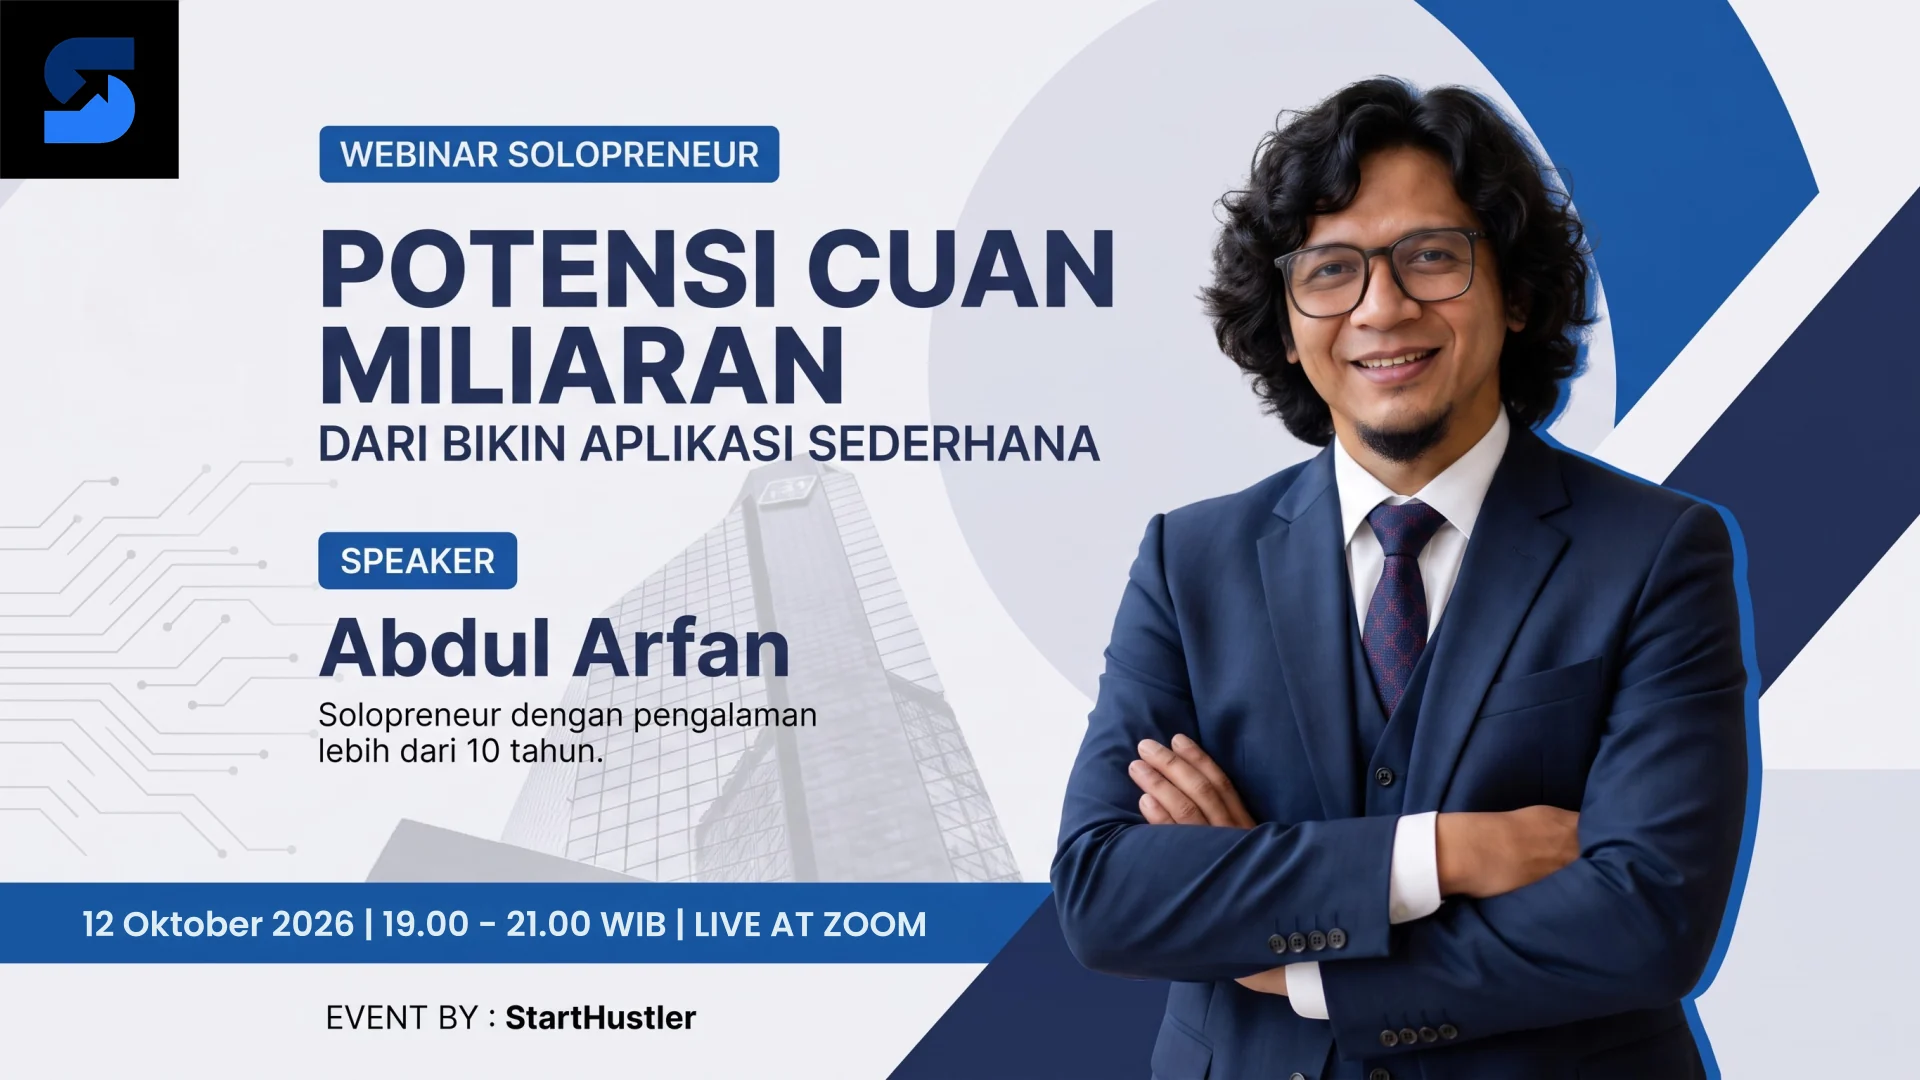
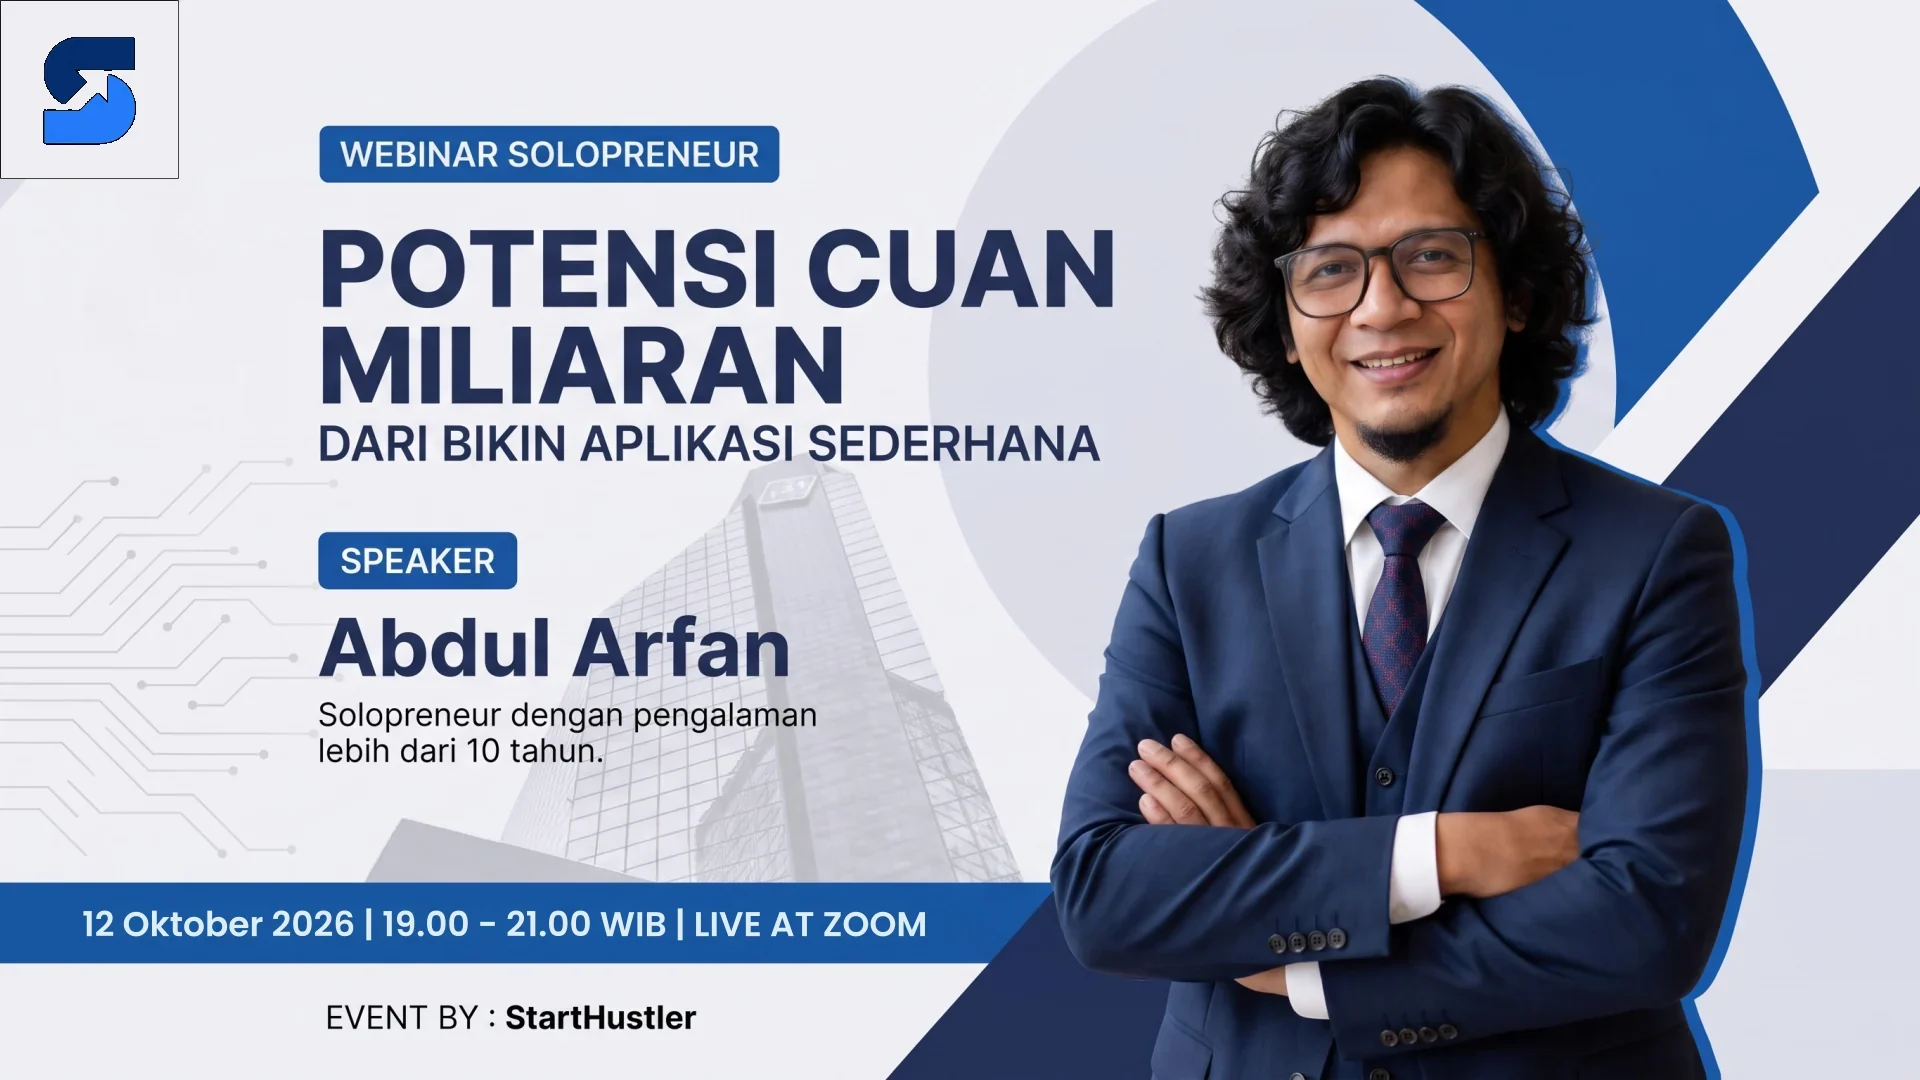
Fit Solopreneur poster without cropping

Changed region(s): [[0.0, 0.0, 0.0938, 0.1833]]

diff --git a/client/src/index.css b/client/src/index.css
@@ -132,7 +132,7 @@ button { border:0; }
 .event-info--hero .event-info__content { display:flex; flex-direction:column; min-width:0; }
 .event-info--hero .event-info__content strong { color:#fff; font-size:14px; line-height:1.3; }
 .event-info--hero .event-info__content > span { color:rgba(255,255,255,.68); font-size:13px; line-height:1.45; margin-top:4px; white-space:pre-line; }
-.class-detail-hero__art { align-items: center; align-self: center; aspect-ratio: 4 / 3; background: #020817; border: 1px solid rgba(255,255,255,.14); display: flex; justify-content: center; min-height: 0; overflow: hidden; position: relative; }
+.class-detail-hero__art { align-items: center; align-self: center; aspect-ratio: 16 / 9; background: #020817; border: 1px solid rgba(255,255,255,.14); display: flex; justify-content: center; min-height: 0; overflow: hidden; position: relative; }
 .class-detail-hero__art img { display: block; height: auto; max-height: 100%; max-width: 100%; object-fit: contain; position: static; width: 100%; }
 .class-detail-intro, .class-detail-split, .class-detail-calculation, .class-detail-mentor, .class-detail-ebook, .class-detail-about { padding-bottom: 100px; padding-top: 100px; }
 .class-detail-intro > p { font-size: clamp(20px, 2.2vw, 31px); line-height: 1.24; margin: 0 auto; max-width: 940px; text-align: center; }
@@ -176,7 +176,7 @@ button { border:0; }
 .class-detail-starhustler .eyebrow { justify-content: center; }
 .class-detail-starhustler p { color: rgba(255,255,255,.84); }
 .class-detail-starhustler .button { margin-top: 18px; }
-@media (max-width: 760px) { .class-detail-hero { display: block; min-height: 0; padding: 74px 20px 55px; }.class-detail-hero__copy h1 { font-size: 42px; }.class-detail-hero__art { aspect-ratio: 4 / 3; height: auto; margin-top: 42px; min-height: 0; }.class-detail-meta { gap: 14px; }.class-detail-meta > span { font-size: 15px; }.class-detail-intro, .class-detail-split, .class-detail-calculation, .class-detail-mentor, .class-detail-ebook, .class-detail-about { padding-bottom: 67px; padding-top: 67px; }.class-detail-intro__grid, .class-detail-split, .class-detail-mentor, .class-detail-promo, .class-detail-ebook, .class-detail-about { display: flex; flex-direction: column; gap: 35px; }.class-detail-split--reverse .class-detail-split__copy, .class-detail-split--reverse .class-detail-split__media { order: initial; }.class-detail-split__media, .class-detail-split__media img { min-height: 260px; }.class-detail-page p { font-size: 17px; }.calculation-box { padding: 28px 20px; }.calculation-box strong { font-size: 38px; }.benefit-grid { grid-template-columns: 1fr; margin-top: 31px; }.class-detail-benefits { padding: 67px 0; }.class-detail-promo { padding-bottom: 67px; padding-top: 67px; }.class-detail-ebook__visual { order: 2; }.class-detail-ebook .center-action { order: 3; }.class-detail-actions { align-items: stretch; flex-direction: column; }.class-detail-actions .button { width: 100%; }.class-detail-starhustler { padding: 67px 0; } }
+@media (max-width: 760px) { .class-detail-hero { display: block; min-height: 0; padding: 74px 20px 55px; }.class-detail-hero__copy h1 { font-size: 42px; }.class-detail-hero__art { aspect-ratio: 16 / 9; height: auto; margin-top: 42px; min-height: 0; }.class-detail-meta { gap: 14px; }.class-detail-meta > span { font-size: 15px; }.class-detail-intro, .class-detail-split, .class-detail-calculation, .class-detail-mentor, .class-detail-ebook, .class-detail-about { padding-bottom: 67px; padding-top: 67px; }.class-detail-intro__grid, .class-detail-split, .class-detail-mentor, .class-detail-promo, .class-detail-ebook, .class-detail-about { display: flex; flex-direction: column; gap: 35px; }.class-detail-split--reverse .class-detail-split__copy, .class-detail-split--reverse .class-detail-split__media { order: initial; }.class-detail-split__media, .class-detail-split__media img { min-height: 260px; }.class-detail-page p { font-size: 17px; }.calculation-box { padding: 28px 20px; }.calculation-box strong { font-size: 38px; }.benefit-grid { grid-template-columns: 1fr; margin-top: 31px; }.class-detail-benefits { padding: 67px 0; }.class-detail-promo { padding-bottom: 67px; padding-top: 67px; }.class-detail-ebook__visual { order: 2; }.class-detail-ebook .center-action { order: 3; }.class-detail-actions { align-items: stretch; flex-direction: column; }.class-detail-actions .button { width: 100%; }.class-detail-starhustler { padding: 67px 0; } }
 
 .class-detail-proof-grid { display:grid; gap:22px; grid-template-columns:repeat(3,1fr); margin:58px 0 30px; }
 .class-detail-proof-card { background:rgba(255,255,255,.06); border:1px solid rgba(255,255,255,.14); min-height:155px; padding:18px; }
